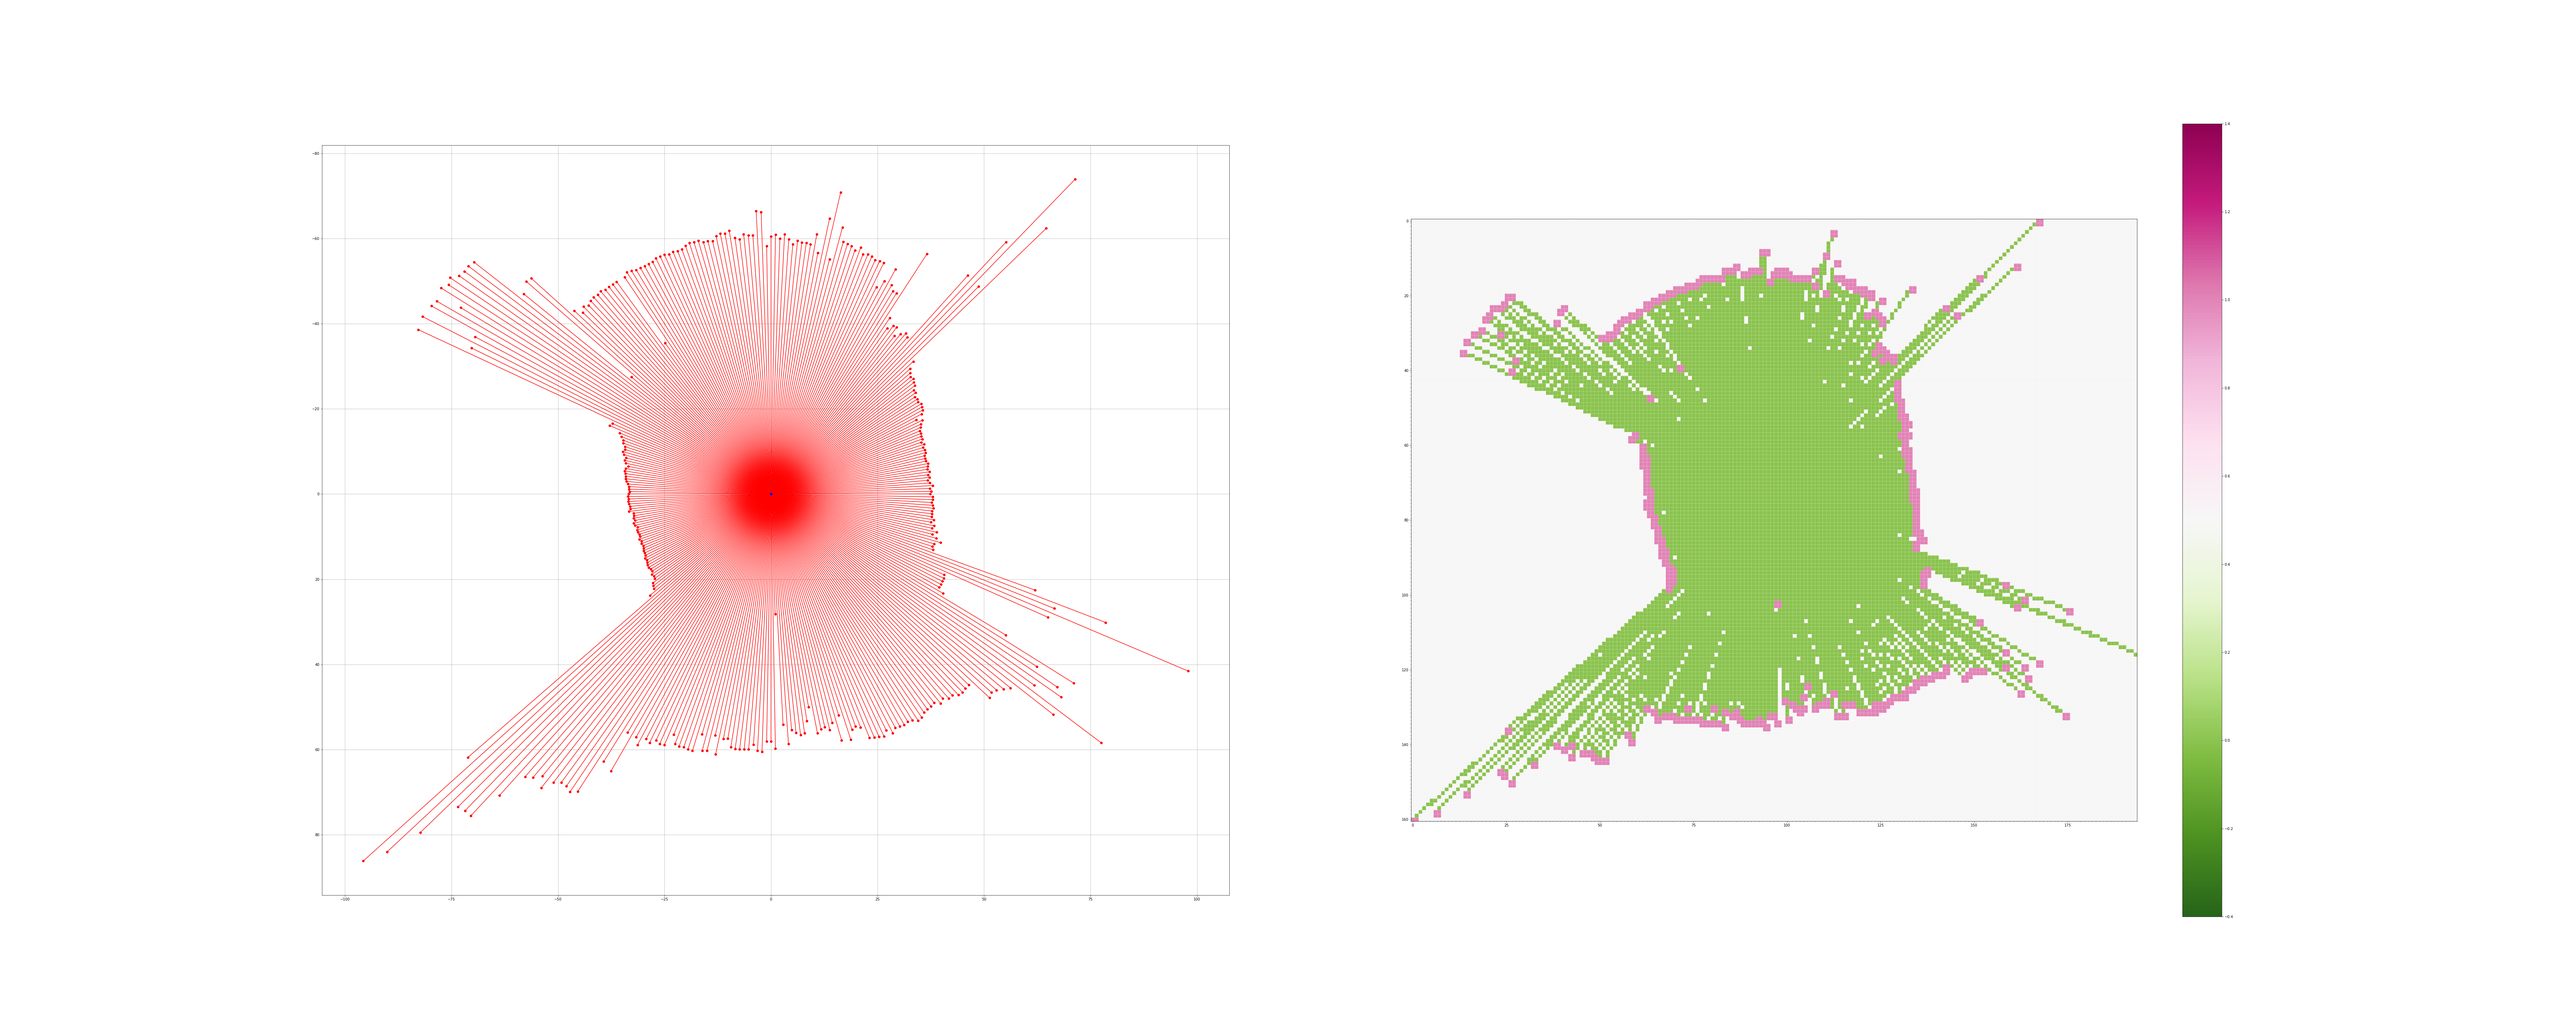
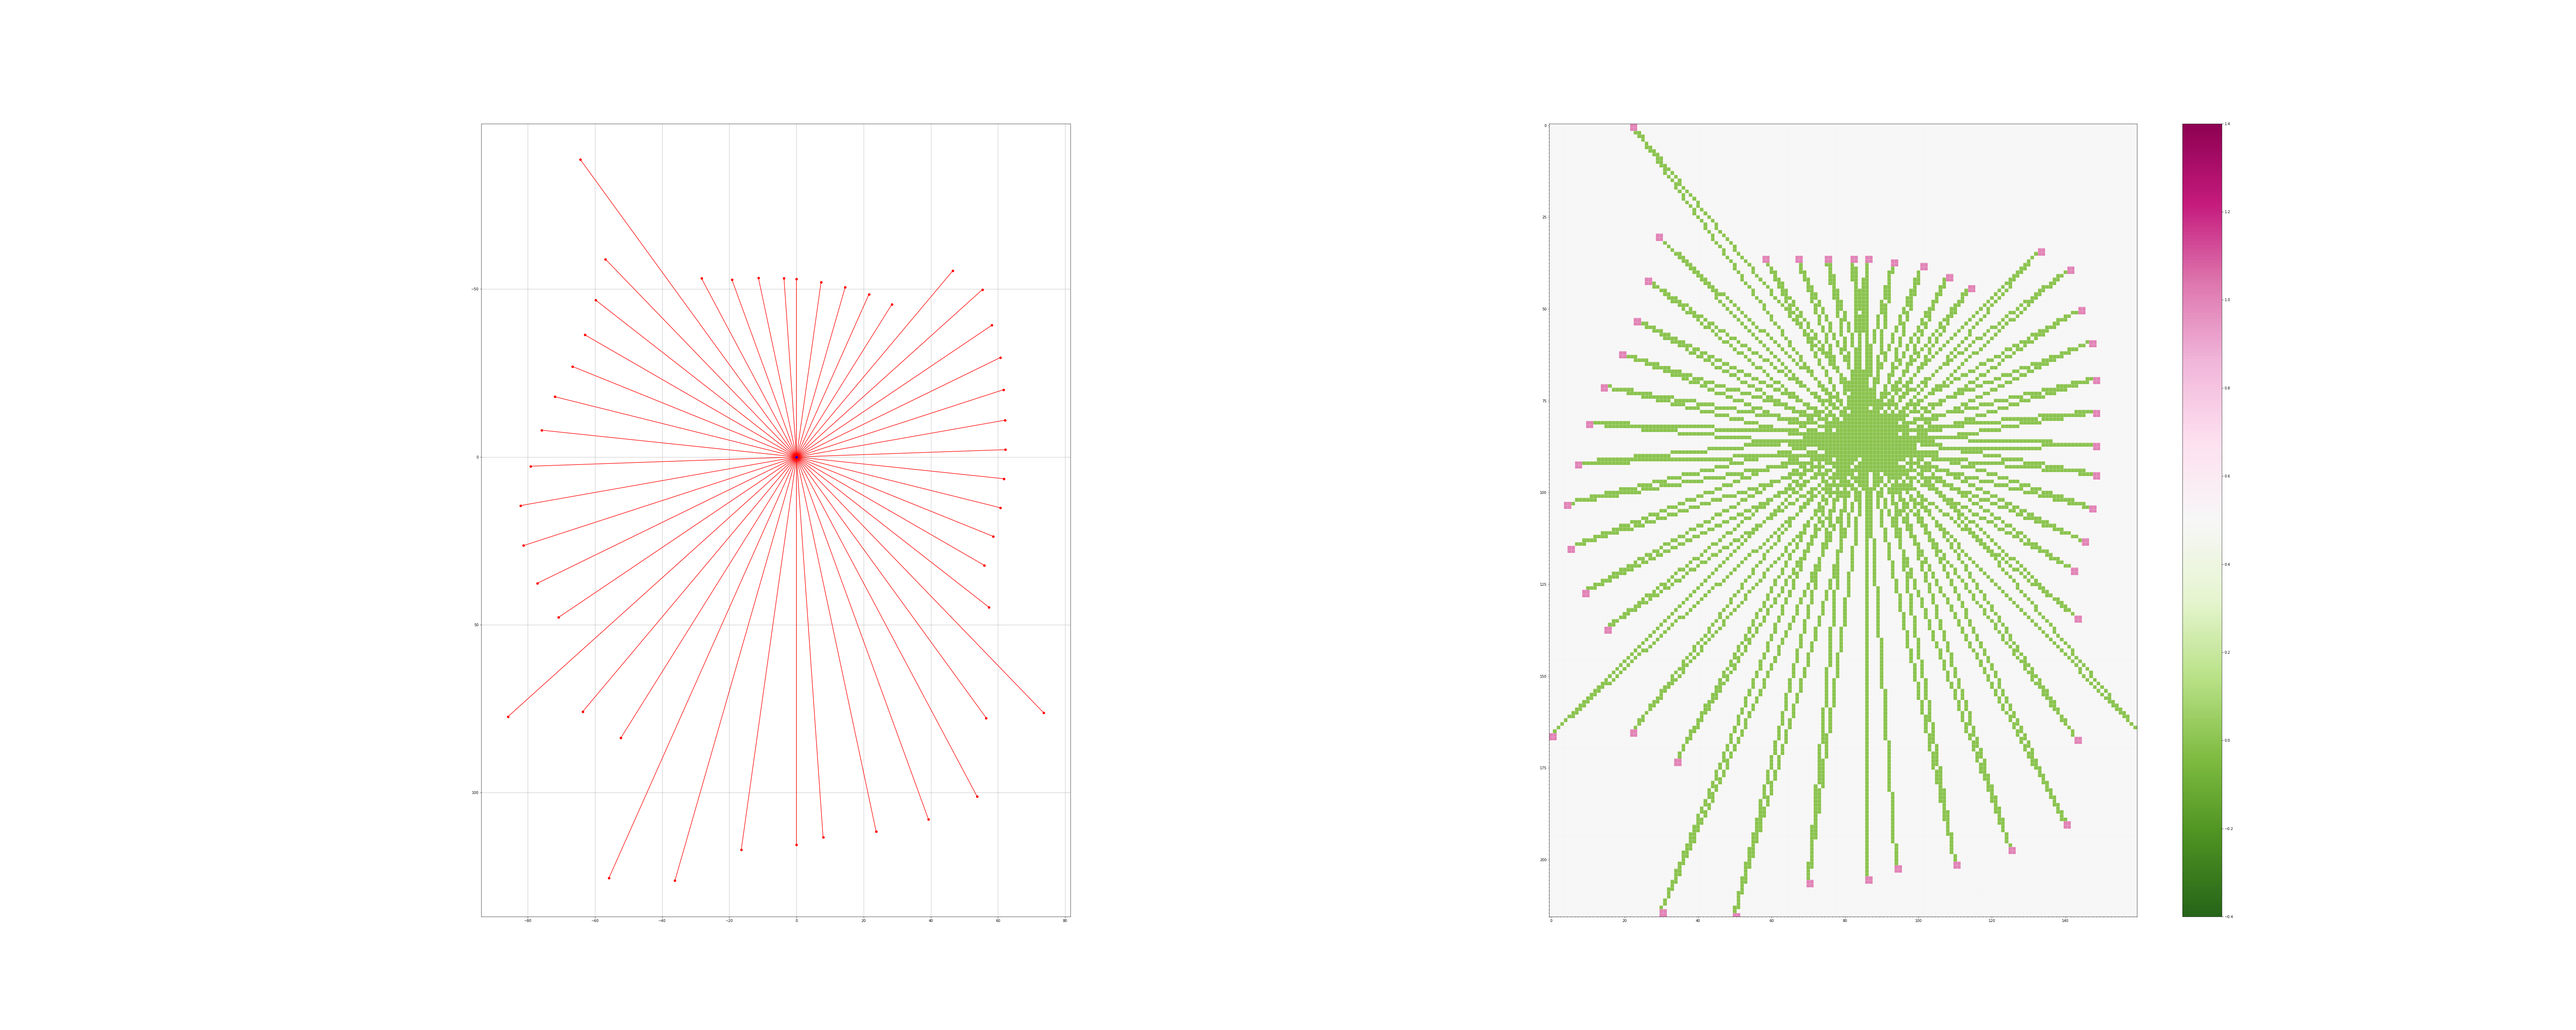
Improved accuracy of HC-SR04 with median calculation and added time delay between scans to remove noise

Changed region(s): [[0.5625, 0.2188, 0.8125, 0.8438], [0.1875, 0.2188, 0.4062, 0.75]]

diff --git a/mapping/gridmap.py b/mapping/gridmap.py
@@ -119,26 +119,28 @@ class GridMap:
         while fringe:
             n = fringe.pop()
             nx, ny = n
-            # West
-            if nx > 0:
-                if pmap[nx - 1, ny] == 0.5:
-                    pmap[nx - 1, ny] = 0.0
-                    fringe.appendleft((nx - 1, ny))
-            # East
-            if nx < sx - 1:
-                if pmap[nx + 1, ny] == 0.5:
-                    pmap[nx + 1, ny] = 0.0
-                    fringe.appendleft((nx + 1, ny))
-            # North
-            if ny > 0:
-                if pmap[nx, ny - 1] == 0.5:
-                    pmap[nx, ny - 1] = 0.0
-                    fringe.appendleft((nx, ny - 1))
-            # South
-            if ny < sy - 1:
-                if pmap[nx, ny + 1] == 0.5:
-                    pmap[nx, ny + 1] = 0.0
-                    fringe.appendleft((nx, ny + 1))
+            if ny < sy:
+                # West
+                if nx > 0:
+                    if pmap[nx - 1, ny] == 0.5:
+                        pmap[nx - 1, ny] = 0.0
+                        fringe.appendleft((nx - 1, ny))
+                # East
+                if nx < sx - 1:
+                    if pmap[nx + 1, ny] == 0.5:
+                        pmap[nx + 1, ny] = 0.0
+                        fringe.appendleft((nx + 1, ny))
+            if nx < sx:
+                # North
+                if ny > 0:
+                    if pmap[nx, ny - 1] == 0.5:
+                        pmap[nx, ny - 1] = 0.0
+                        fringe.appendleft((nx, ny - 1))
+                # South
+                if ny < sy - 1:
+                    if pmap[nx, ny + 1] == 0.5:
+                        pmap[nx, ny + 1] = 0.0
+                        fringe.appendleft((nx, ny + 1))
 
     def _generate_ray_casting_grid_map(self, ox, oy, xyreso, breshen=True):
         """

diff --git a/test.py b/test.py
@@ -30,15 +30,15 @@ if __name__ == "__main__":
     position = [0, 0]
 
     def scanSurroundings(robotAngle):
-        for angle in range(0, 180, 1):
+        for angle in range(0, 180, 8):
             servo.rotate(angle)
 
-            distance = ultrasonicSensorFront.getAverageDistance(2)
-            theta = ((angle  + 90)) * math.pi / 180.0
+            distance = ultrasonicSensorFront.getMedianDistance(5)
+            theta = (360 - angle) * math.pi / 180.0
             gridMap.addPoint(position, theta, distance)
 
-            distance = ultrasonicSensorBack.getAverageDistance(2)
-            theta = ((angle  + 270)) * math.pi / 180.0
+            distance = ultrasonicSensorBack.getMedianDistance(5)
+            theta = ((360 - angle) + 180) * math.pi / 180.0
             gridMap.addPoint(position, theta, distance)
             
     def moveStraight(distance:float):
@@ -57,7 +57,10 @@ if __name__ == "__main__":
     
     gridMap.recalculate()
     gridMap.saveImage("map.png")
-    
+        
+    # distance = ultrasonicSensorFront.getAverageDistance(20)
+    # print("Final Dist: ", distance)
+
     servo.clean()
     ultrasonicSensorFront.clean()
     ultrasonicSensorBack.clean()

diff --git a/drivers/ultrsonicsensor.py b/drivers/ultrsonicsensor.py
@@ -1,5 +1,6 @@
 import RPi.GPIO as GPIO
 import time
+import statistics
 
 class UltrsonicSensor:
     def __init__(self, config):
@@ -14,14 +15,18 @@ class UltrsonicSensor:
     def clean(self):
         pass
 
-    def getAverageDistance(self, count):
+    def getMedianDistance(self, count):
         avgDist = 0
+        distances = [0] * count
         for i in range(count):
-            dist = self.getDistance()
-            avgDist += dist
-        return avgDist / count
+            distances[i] = 0
+            while distances[i] > 400 or distances[i] < 2:
+                distances[i] = self.getDistance()
+        
+        return statistics.median(distances)
             
     def getDistance(self):
+        time.sleep(0.01) # Very important to reduce noise
         GPIO.output(self._triggerPin, True)
         time.sleep(0.00001)
         GPIO.output(self._triggerPin, False)
@@ -38,8 +43,4 @@ class UltrsonicSensor:
         distance = (timeElapsed * 34300.0) / 2
         distance = round(distance, 2)
 
-        if distance > 2 and distance < 400:
-            distance = distance
-        else:
-            distance = 0
         return distance

diff --git a/drivers/servomotor.py b/drivers/servomotor.py
@@ -17,6 +17,7 @@ class ServoMotor:
         self._pwmPin.stop()
 
     def rotate(self, angle):
+        angle = 180 - angle
         if angle >= self._min and angle <= self._max:
             self._setAngle(angle)
             return angle
